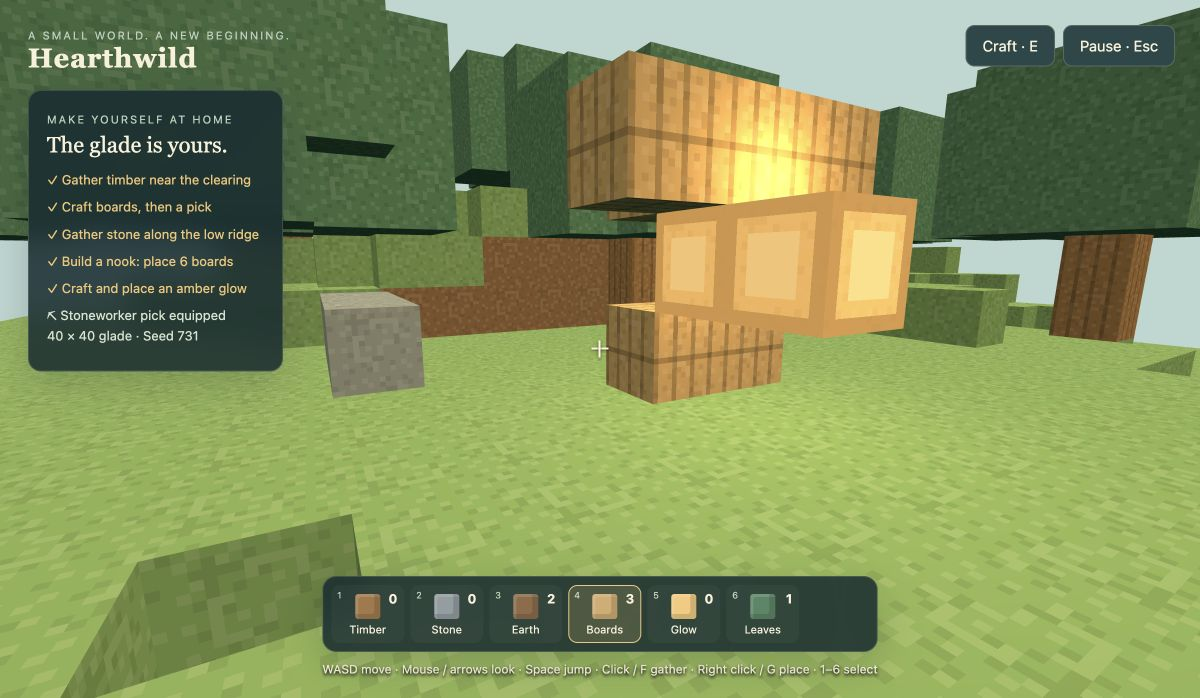
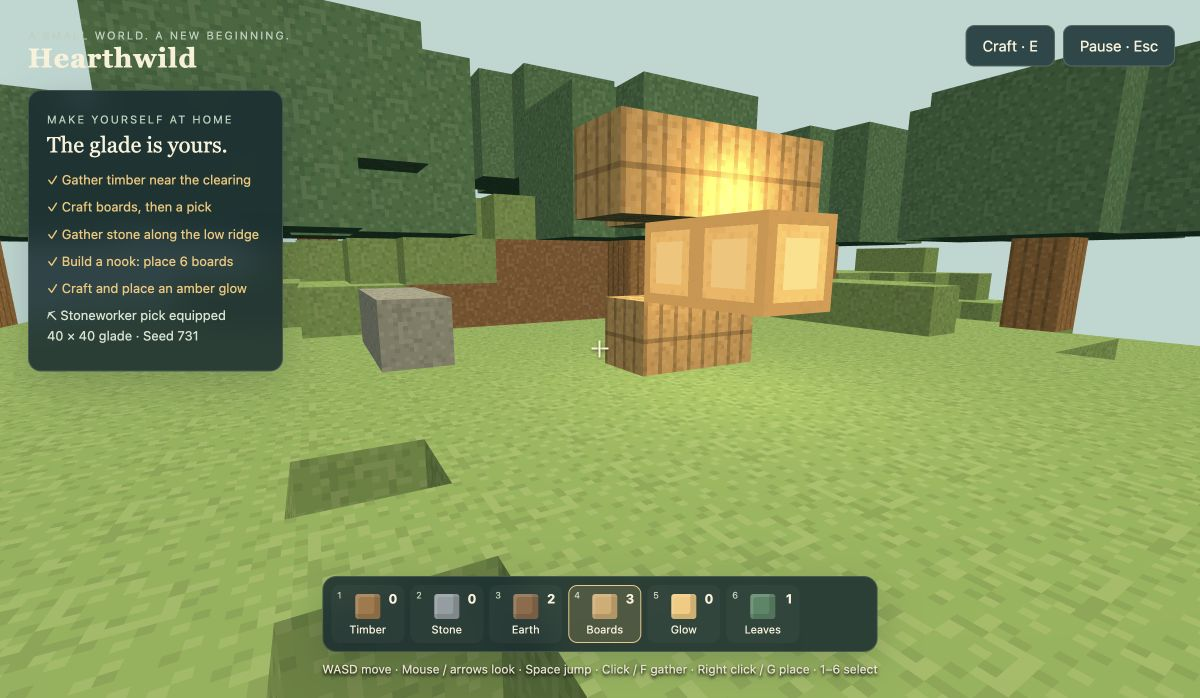
Record final review and leave clean playable journey

diff --git a/docs/VERIFICATION.md b/docs/VERIFICATION.md
@@ -21,3 +21,5 @@ Normal UI controls only for gameplay: keyboard/drag fallback, F gathering, E wor
 ## Delivery constraints
 
 Existing game paths inspected; none changed. At task start no listeners on ports 5173/5174 were present; no server was stopped or replaced. Hearthwild uses 127.0.0.1:5175. Codex project list inspected: repository exists on disk, but there is no supported project-registration API exposed, so this is not registered as a sidebar project. No app configuration files edited. No deployment or paid service used.
+
+Final rechecks: both independent reviewers rechecked d5c93d5 and confirmed their findings resolved with no remaining concrete issues in the fixes. Final typecheck, nine tests, production build passed; online npm audit returned zero vulnerabilities. Build emits an advisory for the ~508 kB Three.js/application bundle (~130 kB gzip), accepted for this compact local game. Automated Chrome denied pointer lock; entry stayed playable and displayed its arrow/drag fallback. Native mouse capture in a human-controlled session remains unverified. A clean glade with empty inventory was restored through the in-game fresh-start confirmation, then left at onboarding. Live server remains on port 5175.
